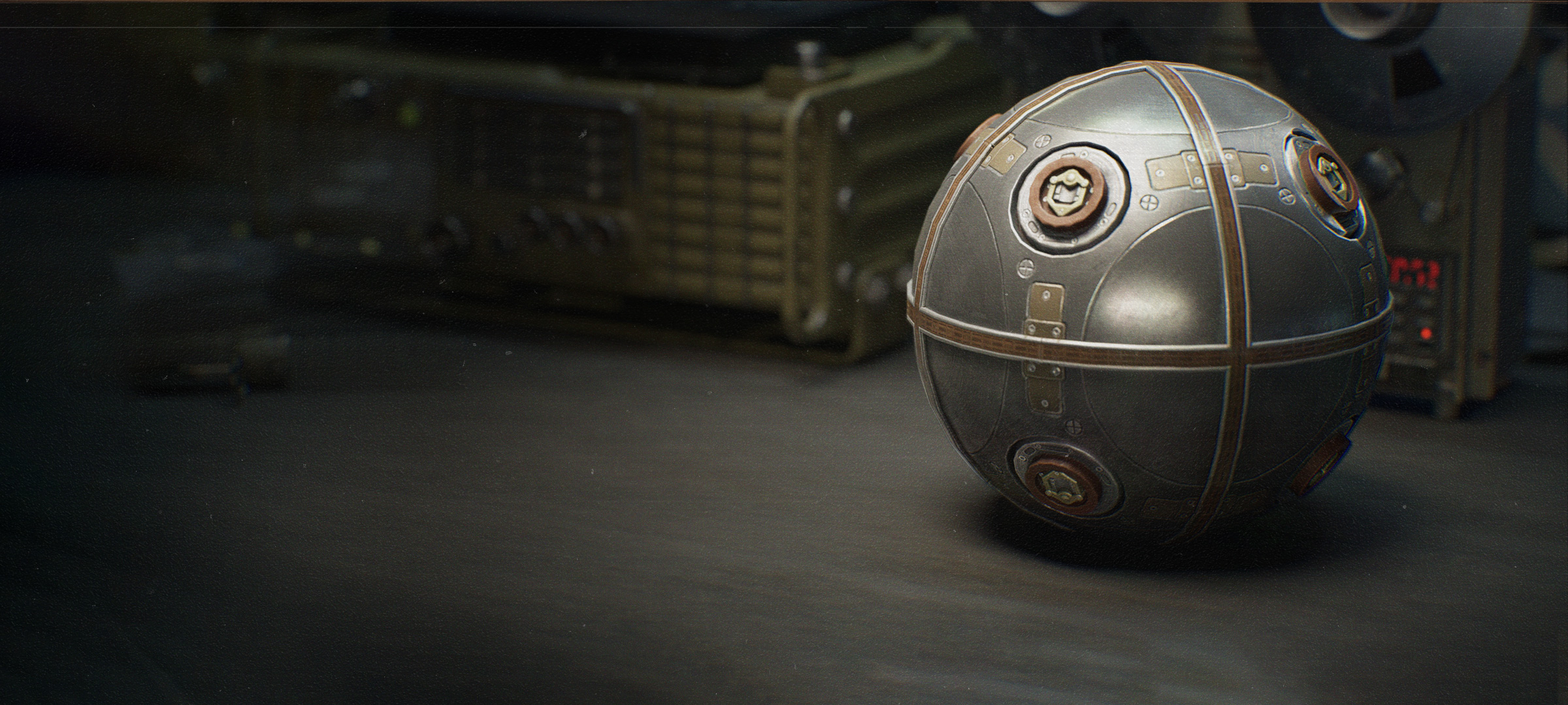
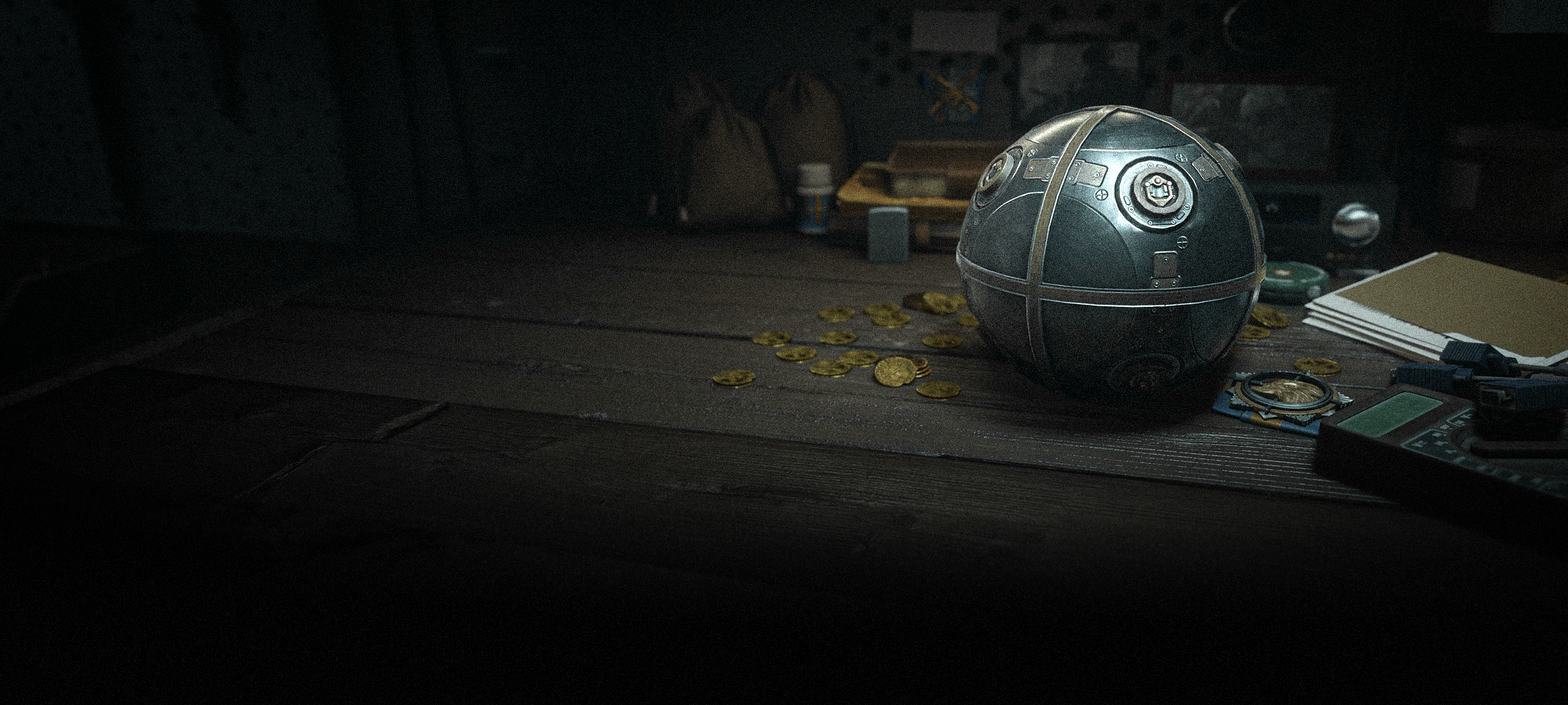
feat: new collect-room backgrounds, 5 new collectibles, fix duplicate verify module
- replace all shipped collect backgrounds with the new 2400x1080 art and add
  the five missing ones (atomic clock core, gem necklace, new frontier,
  electromagnetic catapult, golden foal statue)
- collect gallery now lists 23 collectibles
- debug unlock-all wrote 计算机验算模块 while the game item is 验算模块, so the
  list ended up with two entries; the name now matches and legacy saves are
  merged on load

diff --git a/boot/js/script_new.js b/boot/js/script_new.js
@@ -1418,7 +1418,12 @@ previewCurrentBackground() {
             '法厄同之钟': 'collect/img_f70f42c369.png',
             '黄金哑铃': 'collect/img_7b748eb857.png',
             '机械手臂': 'collect/img_f923762915.png',
-            '热成像模块': 'collect/img_9aaa9d9296.png'
+            '热成像模块': 'collect/img_9aaa9d9296.png',
+            '原子钟核心': 'collect/img_93d5c9d9b5.png',
+            '宝石项链': 'collect/img_31a2709271.png',
+            '“新边疆”模型': 'collect/img_7c8eb5c849.png',
+            '电磁弹射组件': 'collect/img_c90e5d6d40.png',
+            '金驹跃岭雕像': 'collect/img_7610daa96c.png'
         },
 
         list: [],
@@ -1456,7 +1461,25 @@ previewCurrentBackground() {
                     }
                 } catch (e2) {}
             }
+            this.list = this._normalize(this.list);
             this.currentIndex = 0;
+        },
+
+        _normalize(list) {
+            const out = [];
+            (list || []).forEach(item => {
+                if (!item || !item.name) return;
+                // 旧版调试菜单写入的是“计算机验算模块”，与游戏内名称不一致，会多出一条重复项
+                const name = item.name === '计算机验算模块' ? '验算模块' : item.name;
+                const image = this.COLLECT_MAP[name] || item.image;
+                const exist = _.find(out, { name: name });
+                if (exist) {
+                    exist.count = (exist.count || 0) + (item.count || 1);
+                } else {
+                    out.push(_.assign({}, item, { name: name, image: image }));
+                }
+            });
+            return out;
         },
 
         _write(key, data) {
@@ -6118,7 +6141,7 @@ const EventManager = {
     var HU_MANIFEST_URL = HU_BASE_URL + '/manifest.json';
     var HU_STORAGE_KEY = 'hotupdate_current_version';
     // 当前运行的构建版本（写死在脚本里 = 真实生效版本，不依赖 localStorage）
-    window.HU_BUILD_VERSION = 'v2.1.0_hotfix.30';
+    window.HU_BUILD_VERSION = 'v2.1.0_hotfix.31';
 
     /* ============================================================
      * 检查更新

diff --git a/boot2/js/script_new.js b/boot2/js/script_new.js
@@ -1418,7 +1418,12 @@ previewCurrentBackground() {
             '法厄同之钟': 'collect/img_f70f42c369.png',
             '黄金哑铃': 'collect/img_7b748eb857.png',
             '机械手臂': 'collect/img_f923762915.png',
-            '热成像模块': 'collect/img_9aaa9d9296.png'
+            '热成像模块': 'collect/img_9aaa9d9296.png',
+            '原子钟核心': 'collect/img_93d5c9d9b5.png',
+            '宝石项链': 'collect/img_31a2709271.png',
+            '“新边疆”模型': 'collect/img_7c8eb5c849.png',
+            '电磁弹射组件': 'collect/img_c90e5d6d40.png',
+            '金驹跃岭雕像': 'collect/img_7610daa96c.png'
         },
 
         list: [],
@@ -1456,7 +1461,25 @@ previewCurrentBackground() {
                     }
                 } catch (e2) {}
             }
+            this.list = this._normalize(this.list);
             this.currentIndex = 0;
+        },
+
+        _normalize(list) {
+            const out = [];
+            (list || []).forEach(item => {
+                if (!item || !item.name) return;
+                // 旧版调试菜单写入的是“计算机验算模块”，与游戏内名称不一致，会多出一条重复项
+                const name = item.name === '计算机验算模块' ? '验算模块' : item.name;
+                const image = this.COLLECT_MAP[name] || item.image;
+                const exist = _.find(out, { name: name });
+                if (exist) {
+                    exist.count = (exist.count || 0) + (item.count || 1);
+                } else {
+                    out.push(_.assign({}, item, { name: name, image: image }));
+                }
+            });
+            return out;
         },
 
         _write(key, data) {
@@ -6118,7 +6141,7 @@ const EventManager = {
     var HU_MANIFEST_URL = HU_BASE_URL + '/manifest.json';
     var HU_STORAGE_KEY = 'hotupdate_current_version';
     // 当前运行的构建版本（写死在脚本里 = 真实生效版本，不依赖 localStorage）
-    window.HU_BUILD_VERSION = 'v2.1.0_hotfix.30';
+    window.HU_BUILD_VERSION = 'v2.1.0_hotfix.31';
 
     /* ============================================================
      * 检查更新

diff --git a/js/script_new.js b/js/script_new.js
@@ -1418,7 +1418,12 @@ previewCurrentBackground() {
             '法厄同之钟': 'collect/img_f70f42c369.png',
             '黄金哑铃': 'collect/img_7b748eb857.png',
             '机械手臂': 'collect/img_f923762915.png',
-            '热成像模块': 'collect/img_9aaa9d9296.png'
+            '热成像模块': 'collect/img_9aaa9d9296.png',
+            '原子钟核心': 'collect/img_93d5c9d9b5.png',
+            '宝石项链': 'collect/img_31a2709271.png',
+            '“新边疆”模型': 'collect/img_7c8eb5c849.png',
+            '电磁弹射组件': 'collect/img_c90e5d6d40.png',
+            '金驹跃岭雕像': 'collect/img_7610daa96c.png'
         },
 
         list: [],
@@ -1456,7 +1461,25 @@ previewCurrentBackground() {
                     }
                 } catch (e2) {}
             }
+            this.list = this._normalize(this.list);
             this.currentIndex = 0;
+        },
+
+        _normalize(list) {
+            const out = [];
+            (list || []).forEach(item => {
+                if (!item || !item.name) return;
+                // 旧版调试菜单写入的是“计算机验算模块”，与游戏内名称不一致，会多出一条重复项
+                const name = item.name === '计算机验算模块' ? '验算模块' : item.name;
+                const image = this.COLLECT_MAP[name] || item.image;
+                const exist = _.find(out, { name: name });
+                if (exist) {
+                    exist.count = (exist.count || 0) + (item.count || 1);
+                } else {
+                    out.push(_.assign({}, item, { name: name, image: image }));
+                }
+            });
+            return out;
         },
 
         _write(key, data) {
@@ -6118,7 +6141,7 @@ const EventManager = {
     var HU_MANIFEST_URL = HU_BASE_URL + '/manifest.json';
     var HU_STORAGE_KEY = 'hotupdate_current_version';
     // 当前运行的构建版本（写死在脚本里 = 真实生效版本，不依赖 localStorage）
-    window.HU_BUILD_VERSION = 'v2.1.0_hotfix.30';
+    window.HU_BUILD_VERSION = 'v2.1.0_hotfix.31';
 
     /* ============================================================
      * 检查更新

diff --git a/boot/js/debug.js b/boot/js/debug.js
@@ -918,12 +918,17 @@
     '航天导航仪': 'collect/img_8d9ab9be88.png',
     '“鎏金羽宫”': 'collect/img_86be2efc8e.png',
     '《黎明》': 'collect/img_37150efe31.png',
-    '计算机验算模块': 'collect/img_c9984fa547.png',
+    '验算模块': 'collect/img_c9984fa547.png',
     '参考球零件': 'collect/img_b867e932ea.png',
     '法厄同之钟': 'collect/img_f70f42c369.png',
     '黄金哑铃': 'collect/img_7b748eb857.png',
     '机械手臂': 'collect/img_f923762915.png',
-    '热成像模块': 'collect/img_9aaa9d9296.png'
+    '热成像模块': 'collect/img_9aaa9d9296.png',
+    '原子钟核心': 'collect/img_93d5c9d9b5.png',
+    '宝石项链': 'collect/img_31a2709271.png',
+    '“新边疆”模型': 'collect/img_7c8eb5c849.png',
+    '电磁弹射组件': 'collect/img_c90e5d6d40.png',
+    '金驹跃岭雕像': 'collect/img_7610daa96c.png'
   };
   var GAME_COLLECTIBLES = Object.keys(GAME_COLLECT_MAP);
 

diff --git a/boot2/js/debug.js b/boot2/js/debug.js
@@ -918,12 +918,17 @@
     '航天导航仪': 'collect/img_8d9ab9be88.png',
     '“鎏金羽宫”': 'collect/img_86be2efc8e.png',
     '《黎明》': 'collect/img_37150efe31.png',
-    '计算机验算模块': 'collect/img_c9984fa547.png',
+    '验算模块': 'collect/img_c9984fa547.png',
     '参考球零件': 'collect/img_b867e932ea.png',
     '法厄同之钟': 'collect/img_f70f42c369.png',
     '黄金哑铃': 'collect/img_7b748eb857.png',
     '机械手臂': 'collect/img_f923762915.png',
-    '热成像模块': 'collect/img_9aaa9d9296.png'
+    '热成像模块': 'collect/img_9aaa9d9296.png',
+    '原子钟核心': 'collect/img_93d5c9d9b5.png',
+    '宝石项链': 'collect/img_31a2709271.png',
+    '“新边疆”模型': 'collect/img_7c8eb5c849.png',
+    '电磁弹射组件': 'collect/img_c90e5d6d40.png',
+    '金驹跃岭雕像': 'collect/img_7610daa96c.png'
   };
   var GAME_COLLECTIBLES = Object.keys(GAME_COLLECT_MAP);
 

diff --git a/js/debug.js b/js/debug.js
@@ -918,12 +918,17 @@
     '航天导航仪': 'collect/img_8d9ab9be88.png',
     '“鎏金羽宫”': 'collect/img_86be2efc8e.png',
     '《黎明》': 'collect/img_37150efe31.png',
-    '计算机验算模块': 'collect/img_c9984fa547.png',
+    '验算模块': 'collect/img_c9984fa547.png',
     '参考球零件': 'collect/img_b867e932ea.png',
     '法厄同之钟': 'collect/img_f70f42c369.png',
     '黄金哑铃': 'collect/img_7b748eb857.png',
     '机械手臂': 'collect/img_f923762915.png',
-    '热成像模块': 'collect/img_9aaa9d9296.png'
+    '热成像模块': 'collect/img_9aaa9d9296.png',
+    '原子钟核心': 'collect/img_93d5c9d9b5.png',
+    '宝石项链': 'collect/img_31a2709271.png',
+    '“新边疆”模型': 'collect/img_7c8eb5c849.png',
+    '电磁弹射组件': 'collect/img_c90e5d6d40.png',
+    '金驹跃岭雕像': 'collect/img_7610daa96c.png'
   };
   var GAME_COLLECTIBLES = Object.keys(GAME_COLLECT_MAP);
 

diff --git a/tools/build_shell_apk.py b/tools/build_shell_apk.py
@@ -62,6 +62,14 @@ RENAME_MAP = json.load(open("/tmp/rename_map.json", encoding="utf-8"))
 # music-player 改为首次打开时下载；audio 仍留在包内
 REMOVE_PREFIXES = ("assets/www/progress/", "assets/www/music-player/")
 
+# 收藏室背景图：以仓库 media/collect 为准覆盖/补充到包内
+# （原包里的同名图会被跳过，改用这里的版本；新增的图直接写进去）
+COLLECT_DIR = os.path.join(REPO, "media", "collect")
+COLLECT_FILES = {}
+if os.path.isdir(COLLECT_DIR):
+    for fn in sorted(os.listdir(COLLECT_DIR)):
+        COLLECT_FILES["assets/www/collect/" + fn] = os.path.join(COLLECT_DIR, fn)
+
 SKIP = set(CODE_FILES)
 SKIP.update({"META-INF/MANIFEST.MF", "META-INF/APP.SF", "META-INF/APP.RSA"})
 
@@ -100,6 +108,10 @@ def main():
                 rel = name[len("assets/www/"):]
                 if rel in RENAME_MAP:
                     name = "assets/www/" + RENAME_MAP[rel]
+            if name in COLLECT_FILES:
+                # 收藏室背景图统一由 COLLECT_FILES 重写，避免包里出现重复条目
+                removed += 1
+                continue
             new_info = zipfile.ZipInfo(name, date_time=info.date_time)
             new_info.compress_type = info.compress_type
             new_info.external_attr = info.external_attr
@@ -113,6 +125,15 @@ def main():
                 data = f.read()
             info = zipfile.ZipInfo(name, date_time=(2026, 10, 23, 0, 0, 0))
             info.compress_type = zipfile.ZIP_DEFLATED
+            info.external_attr = 0o644 << 16
+            dst.writestr(info, data)
+
+        # 收藏室背景图：覆盖 + 补充
+        for name, path in COLLECT_FILES.items():
+            with open(path, "rb") as f:
+                data = f.read()
+            info = zipfile.ZipInfo(name, date_time=(2026, 10, 23, 0, 0, 0))
+            info.compress_type = zipfile.ZIP_STORED
             info.external_attr = 0o644 << 16
             dst.writestr(info, data)
 
